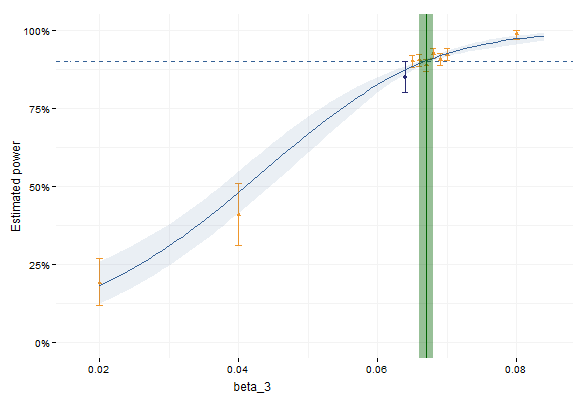
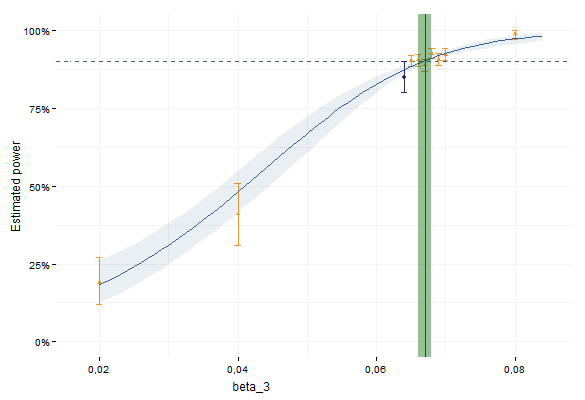
use comma as decimal separator

diff --git a/source/bookdown/power_mas_light/index.md b/source/bookdown/power_mas_light/index.md
@@ -7,10 +7,10 @@ Dit rapport onderzoekt de statistische haalbaarheid van een vereenvoudigd monito
 
 Hiervoor werd een simulatiegebaseerde poweranalyse uitgevoerd, waarbij telgegevens werden gegenereerd met een Poisson Generalized Linear Mixed Model (GLMM) en vervolgens geanalyseerd met hetzelfde model. De minimaal detecteerbare effectgrootte (MDE) werd bepaald voor verschillende scenario's met 100, 200 en 400 telpunten en tijdreeksen van 10, 16 en 24 jaar. De effectgrootte wordt hierbij gedefinieerd als het minimaal detecteerbare verschil in populatietrend tussen SBP- en niet-SBP-gebieden.
 
-De simulaties tonen dat de detecteerbare effectgrootte afneemt naarmate zowel het aantal telpunten als de lengte van de tijdreeks toeneemt en bij benadering evenredig is met ($1 / \sqrt{n*T^3}$). De analyses zijn uitgevoerd voor een hypothetische, optimale akkervogelsoort met een hoge dichtheid en een beperkte variatie tussen telpunten. De resultaten vertegenwoordigen daardoor een best-case scenario; voor zeldzamere soorten of soorten met een heterogenere verspreiding zal de minimaal detecteerbare effectgrootte groter zijn.
+De simulaties tonen dat de detecteerbare effectgrootte afneemt naarmate zowel het aantal telpunten als de lengte van de tijdreeks toeneemt en bij benadering evenredig is met ($1 / \sqrt{n*T^3}$). De analyses zijn uitgevoerd voor een hypothetische, optimale akkervogelsoort met een hoge dichtheid en een beperkte variatie tussen telpunten. De resultaten geven daardoor een optimistische inschatting van de minimaal detecteerbare effectgrootte; voor zeldzamere soorten of soorten met een heterogenere verspreiding zal deze groter zijn.
 
-Zelfs voor deze optimale hypothetische akkervogelsoort blijft de minimaal detecteerbare trendverschil relatief groot. Bij een meetnet van 400 telpunten zijn, voor een realistische soort die niet overal voorkomt, in de praktijk mogelijk slechts ongeveer 200 telpunten informatief. In dat geval is pas een zeer sterke positieve interactie tussen SBP en niet-SBP detecteerbaar. Concreet betekent dit dat de populatie binnen SBP-gebied over een periode van 10 jaar ongeveer 60 % gunstiger moet evolueren dan buiten SBP-gebied voordat een statistisch significant verschil in trend kan worden aangetoond. Indien deze soort 9.5 % buiten SBP-gebied afneemt over 10 jaar, moet ze binnen SBP-gebied 46.2 % toenemen. Voor een stabiele trend buiten SBP-gebied moet ze binnen SBP-gebied 58.4 % toenemen en voor een toename van  10.5 % buiten SBP-gebied moet ze 73.3 % toenemen binnen SBP-gebied.
-Beschouw hetzelfde voorbeeld voor een tijdreeks van 24 jaar; dan moet de populatie binnen SBP-gebied 37.6 % gunstiger evolueren dan buiten SBP-gebied voordat een statistisch significant verschil in trend kan worden aangetoond.
+Zelfs voor deze optimale hypothetische akkervogelsoort blijft de minimaal detecteerbare trendverschil relatief groot. Bij een meetnet van 400 telpunten zijn, voor een realistische soort die niet overal voorkomt, in de praktijk mogelijk slechts ongeveer 200 telpunten informatief. In dat geval is pas een zeer sterke positieve interactie tussen SBP en niet-SBP detecteerbaar. Concreet betekent dit dat de populatie binnen SBP-gebied over een periode van 10 jaar ongeveer 60 % gunstiger moet evolueren dan buiten SBP-gebied voordat een statistisch significant verschil in trend kan worden aangetoond. Indien deze soort 9,5 % buiten SBP-gebied afneemt over 10 jaar, moet ze binnen SBP-gebied 46,2 % toenemen. Voor een stabiele trend buiten SBP-gebied moet ze binnen SBP-gebied 58,4 % toenemen en voor een toename van  10,5 % buiten SBP-gebied moet ze 73,3 % toenemen binnen SBP-gebied.
+Beschouw hetzelfde voorbeeld voor een tijdreeks van 24 jaar; dan moet de populatie binnen SBP-gebied 37,6 % gunstiger evolueren dan buiten SBP-gebied voordat een statistisch significant verschil in trend kan worden aangetoond.
 
 We kunnen daarom besluiten dat het niet aangewezen is om het aantal meetpunten te verminderen, omdat dan de statistische gevoeligheid te beperkt wordt om verschillen in trend tussen binnen en buiten SBP-gebieden te detecteren.
 <!-- description: end -->

diff --git a/source/bookdown/power_mas_light/06_conclusie.md b/source/bookdown/power_mas_light/06_conclusie.md
@@ -8,9 +8,9 @@ $$
 E \propto \frac{1}{\sqrt{n*T^3}}
 $$
 
-De gepresenteerde powerberekeningen schetsen een realistisch beeld, maar weerspiegelen tegelijkertijd een best-case scenario. De analyses zijn gebaseerd op een hypothetische, optimale akkervogelsoort met de hoogst waargenomen densiteiten binnen en buiten SBP-gebied en de kleinst mogelijke variatie tussen telpunten. Voor soorten die zeldzamer zijn of een grilliger voorkomen kennen, zal de minimaal detecteerbare effectgrootte nog hoger liggen.
+De gepresenteerde powerberekeningen geven een realistische indicatie van de detecteerbare effectgrootte, maar zijn gebaseerd op gunstige aannames. De analyses vertrekken van een hypothetische akkervogelsoort met de hoogst waargenomen densiteiten binnen en buiten SBP-gebied en de kleinst mogelijke variatie tussen telpunten. Voor soorten die zeldzamer zijn of een grilliger voorkomen kennen, zal de minimaal detecteerbare effectgrootte hoger liggen.
 
-Zelfs voor deze optimale hypothetische akkervogelsoort blijft de minimaal detecteerbare trendverschil relatief groot. Bij een meetnet van 400 telpunten zijn, voor een realistische soort die niet overal voorkomt, in de praktijk mogelijk slechts ongeveer 200 telpunten informatief. In dat geval is pas een zeer sterke positieve interactie tussen SBP en niet-SBP detecteerbaar. Concreet betekent dit dat de populatie binnen SBP-gebied over een periode van 10 jaar ongeveer 60 % gunstiger moet evolueren dan buiten SBP-gebied voordat een statistisch significant verschil in trend kan worden aangetoond. Indien deze soort 9.5 % buiten SBP-gebied afneemt over 10 jaar, moet ze binnen SBP-gebied 46.2 % toenemen. Voor een stabiele trend buiten SBP-gebied moet ze binnen SBP-gebied 58.4 % toenemen en voor een toename van  10.5 % buiten SBP-gebied moet ze 73.3 % toenemen binnen SBP-gebied.
+Zelfs voor deze optimale hypothetische akkervogelsoort blijft de minimaal detecteerbare trendverschil relatief groot. Bij een meetnet van 400 telpunten zijn, voor een realistische soort die niet overal voorkomt, in de praktijk mogelijk slechts ongeveer 200 telpunten informatief. In dat geval is pas een zeer sterke positieve interactie tussen SBP en niet-SBP detecteerbaar. Concreet betekent dit dat de populatie binnen SBP-gebied over een periode van 10 jaar ongeveer 60 % gunstiger moet evolueren dan buiten SBP-gebied voordat een statistisch significant verschil in trend kan worden aangetoond. Indien deze soort 9,5 % buiten SBP-gebied afneemt over 10 jaar, moet ze binnen SBP-gebied 46,2 % toenemen. Voor een stabiele trend buiten SBP-gebied moet ze binnen SBP-gebied 58,4 % toenemen en voor een toename van  10,5 % buiten SBP-gebied moet ze 73,3 % toenemen binnen SBP-gebied.
 
 We kunnen daarom besluiten dat het niet aangewezen is om het aantal meetpunten te verminderen, omdat dan de statistische gevoeligheid te beperkt wordt om verschillen in trend tussen binnen en buiten SBP-gebieden te detecteren.
 
